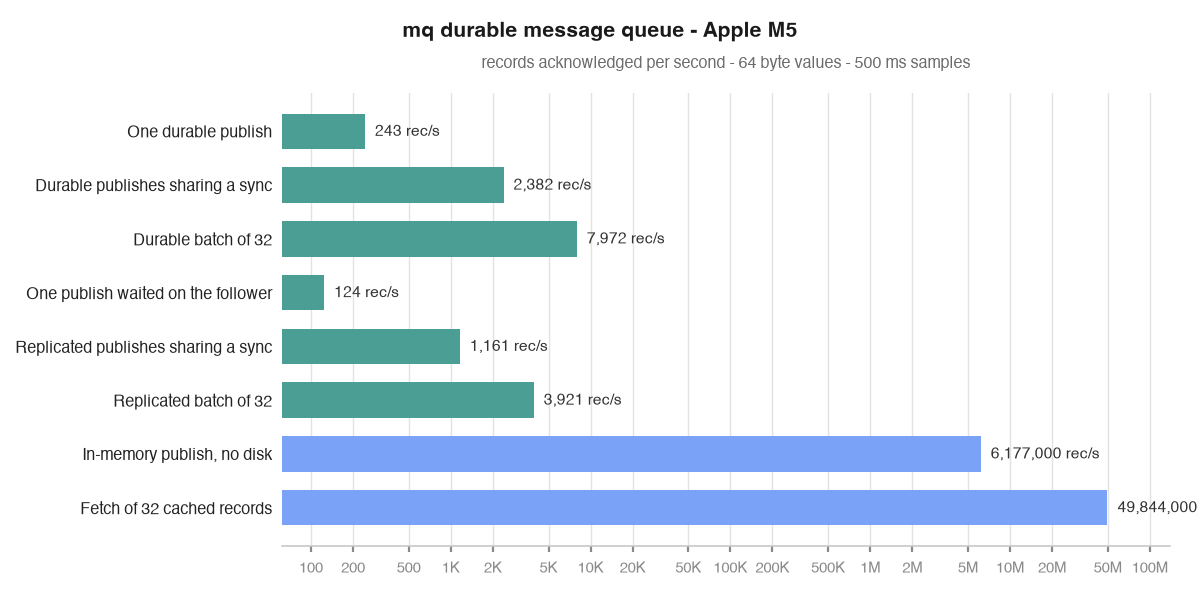
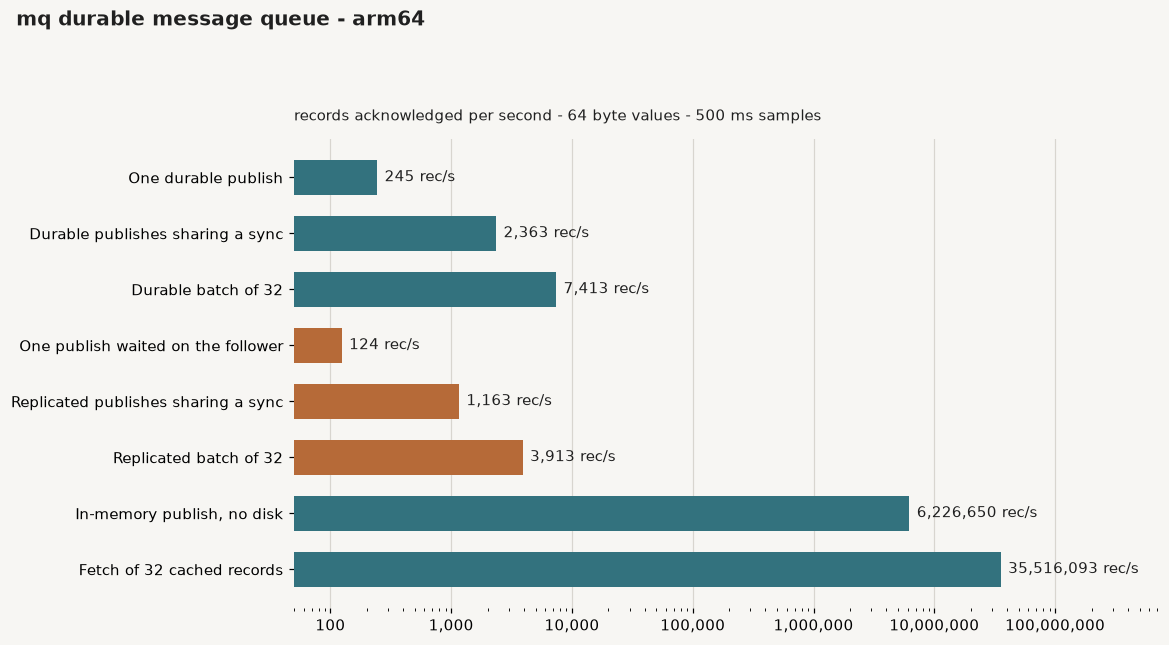
makefile + chart pipeline

Changed region(s): [[0.0, 0.15, 1.0, 0.99], [0.0, 0.0, 0.6775, 0.06], [0.4003, 0.09, 0.8007, 0.12]]

diff --git a/bench/render_chart.py b/bench/render_chart.py
@@ -1,0 +1,100 @@
+#!/usr/bin/env python3
+"""Render docs/performance.png from go bench output.
+
+Usage: python3 bench/render_chart.py broker.bench replication.bench [-o docs/performance.png]
+
+Requires matplotlib (python3 -m pip install matplotlib). Records/sec is
+computed as 1e9 / ns_per_op x records_per_op.
+"""
+import argparse
+import json
+import platform
+import re
+import sys
+
+ROWS = [
+    ("One durable publish", "PublishDurable", 1),
+    ("Durable publishes sharing a sync", "PublishParallelDurable", 1),
+    ("Durable batch of 32", "PublishBatchDurable", 32),
+    ("One publish waited on the follower", "SynchronousPublish", 1),
+    ("Replicated publishes sharing a sync", "SynchronousPublishParallel", 1),
+    ("Replicated batch of 32", "SynchronousPublishBatch32", 32),
+    ("In-memory publish, no disk", "PublishInMemory", 1),
+    ("Fetch of 32 cached records", "FetchBatch32", 32),
+]
+
+UNIT = {"ns": 1.0, "µs": 1e3, "us": 1e3, "ms": 1e6, "s": 1e9}
+BENCH = re.compile(
+    r"^Benchmark(?P<name>[A-Za-z0-9_]+)(?:-\d+)?\s+\d+\s+(?P<val>[\d.]+)\s*(?P<unit>ns|µs|us|ms|s)/op(?:\s|$)"
+)
+
+
+def parse(path):
+    rows = {}
+    with open(path, encoding="utf-8", errors="replace") as f:
+        for raw in f:
+            m = BENCH.match(raw.strip())
+            if not m:
+                continue
+            rows.setdefault(m.group("name"), float(m.group("val")) * UNIT[m.group("unit")])
+    return rows
+
+
+def main():
+    parser = argparse.ArgumentParser()
+    parser.add_argument("bench", nargs="+")
+    parser.add_argument("-o", default="docs/performance.png")
+    args = parser.parse_args()
+
+    results = {}
+    for raw in args.bench:
+        results.update(parse(raw))
+
+    labels, values, colors = [], [], []
+    for label, name, records in ROWS:
+        ns = results.get(name)
+        if ns is None:
+            continue
+        labels.append(label)
+        values.append(1e9 / ns * records)
+        colors.append("#33727e" if "Synchronous" not in name else "#b66a38")
+
+    try:
+        import matplotlib.pyplot as plt
+        import matplotlib.ticker as ticker
+    except ImportError:
+        sys.exit("matplotlib is required: python3 -m pip install matplotlib")
+
+    fig, ax = plt.subplots(figsize=(10.8, 6.0), dpi=110)
+    fig.patch.set_facecolor("#f7f6f3")
+    ax.set_facecolor("#f7f6f3")
+
+    ypos = list(range(len(labels)))[::-1]
+    bars = ax.barh(ypos, values, color=colors, height=0.62)
+    ax.set_yticks(ypos, labels)
+    ax.set_xscale("log")
+    ax.set_xlim(50, values[-1] * 20 if values else 1e8)
+    ax.xaxis.set_major_formatter(ticker.FuncFormatter(lambda v, _: f"{v:,.0f}"))
+    ax.grid(axis="x", which="major", color="#d8d5cf", linewidth=0.8)
+    ax.set_axisbelow(True)
+
+    title_machine = platform.machine() or "arm64"
+    ax.set_title("records acknowledged per second - 64 byte values - 500 ms samples",
+                 fontsize=9.5, color="#202020", loc="left", pad=12)
+    fig.suptitle(f"mq durable message queue - {title_machine}", fontsize=13,
+                 color="#202020", fontweight="bold", x=0.025, ha="left", y=0.97)
+
+    for bar, value in zip(bars, values):
+        ax.text(value * 1.15, bar.get_y() + bar.get_height() / 2,
+                f"{value:,.0f} rec/s" if value >= 100 else f"{value:.0f} rec/s",
+                va="center", fontsize=9.5, color="#202020")
+
+    for spine in ("top", "right", "left", "bottom"):
+        ax.spines[spine].set_visible(False)
+    fig.tight_layout(rect=(0, 0, 1, 0.9))
+    fig.savefig(args.o, bbox_inches="tight")
+    print(f"wrote {args.o}")
+
+
+if __name__ == "__main__":
+    main()

diff --git a/internal/replication/failover_test.go b/internal/replication/failover_test.go
@@ -11,13 +11,6 @@ import (
 	"mq/internal/httpapi"
 )
 
-// TestFailoverAndFencingTrials runs 100 acknowledged-write failover and fencing trials.
-// In each trial:
-// 1. Leader publishes records synchronously replicated to the follower.
-// 2. The leader stops (this in-process test calls Close; it is not a literal OS-process kill).
-// 3. We verify 0 acknowledged writes are lost on the follower.
-// 4. Follower is promoted to epoch 2.
-// 5. Stale leader restarts at epoch 1 and attempts to sync; epoch fencing blocks it.
 func TestFailoverAndFencingTrials(t *testing.T) {
 	const trials = 100
 	token := "replication-token"
@@ -49,7 +42,6 @@ func TestFailoverAndFencingTrials(t *testing.T) {
 			t.Fatalf("trial %d: initial sync: %v", trial, err)
 		}
 
-		// Step 1: Write acknowledged records to leader.
 		const numRecords = 5
 		for i := 0; i < numRecords; i++ {
 			reqID := fmt.Sprintf("trial-%d-msg-%d", trial, i)
@@ -59,10 +51,8 @@ func TestFailoverAndFencingTrials(t *testing.T) {
 			}
 		}
 
-		// Step 2: Leader stops. Read the WAL on the follower to confirm acknowledged records.
 		_ = leader.Close()
 
-		// Step 3: Verify 0 acknowledged records lost on follower.
 		records, err := follower.Fetch("test-topic", 0, numRecords)
 		if err != nil {
 			t.Fatalf("trial %d: fetch from follower: %v", trial, err)
@@ -77,14 +67,12 @@ func TestFailoverAndFencingTrials(t *testing.T) {
 			}
 		}
 
-		// Step 4: Promote follower: epoch is updated to 2.
 		if err := os.WriteFile(filepath.Join(followerDir, "replication.epoch"), []byte("2\n"), 0o600); err != nil {
 			t.Fatalf("trial %d: write epoch: %v", trial, err)
 		}
 		_ = follower.Close()
 		server.Close()
 
-		// Reopen follower node in follower mode with epoch 2 loaded to test fencing of old leader.
 		reopenedFollower, err := broker.Open(followerDir)
 		if err != nil {
 			t.Fatalf("trial %d: reopen follower: %v", trial, err)
@@ -95,7 +83,6 @@ func TestFailoverAndFencingTrials(t *testing.T) {
 		}
 		reopenedServer := httptest.NewServer(reopenedHandler)
 
-		// Step 5: Stale leader restarts at epoch 1 and tries to connect to the follower.
 		staleLeader, err := broker.Open(leaderDir)
 		if err != nil {
 			t.Fatalf("trial %d: reopen stale leader: %v", trial, err)
@@ -105,7 +92,6 @@ func TestFailoverAndFencingTrials(t *testing.T) {
 			t.Fatalf("trial %d: stale client: %v", trial, err)
 		}
 
-		// Attempted sync must fail because follower has accepted epoch 2 > 1.
 		if err := staleClient.Sync(); err == nil {
 			t.Fatalf("trial %d: expected stale leader with epoch 1 to be fenced, but sync succeeded", trial)
 		}
@@ -148,15 +134,12 @@ func TestPartitionRefusesUnreplicatedPublishes(t *testing.T) {
 		t.Fatal(err)
 	}
 
-	// Successful write while connected
 	if _, err := leader.PublishWithID("events", "req-1", []byte("k"), []byte("ok")); err != nil {
 		t.Fatalf("publish while healthy: %v", err)
 	}
 
-	// Sever network connection (partition follower)
 	server.Close()
 
-	// Attempted write must fail to acknowledge to client because follower cannot sync
 	if _, err := leader.PublishWithID("events", "req-2", []byte("k"), []byte("unacked")); err == nil {
 		t.Fatal("expected publish to fail when follower is partitioned, but got nil error")
 	}

diff --git a/internal/wal/wal.go b/internal/wal/wal.go
@@ -286,13 +286,13 @@ type segmentPath struct {
 func (w *WAL) openReplaySegment(item segmentPath, start int64, isLast bool, checkpoint int64, apply func(Entry) error) (*walSegment, error) {
 	file, err := os.OpenFile(item.path, os.O_RDWR, 0o600)
 	if err != nil {
-		w.closeFiles()
+		_ = w.closeFiles()
 		return nil, fmt.Errorf("open WAL segment %q: %w", item.path, err)
 	}
 	info, err := file.Stat()
 	if err != nil {
 		closeErr := file.Close()
-		w.closeFiles()
+		_ = w.closeFiles()
 		return nil, errors.Join(fmt.Errorf("stat WAL segment %q: %w", item.path, err), closeErr)
 	}
 	segment := &walSegment{

diff --git a/internal/broker/broker.go b/internal/broker/broker.go
@@ -92,7 +92,6 @@ type publishRequest struct {
 	walBytes  int64
 	done      chan publishResponse
 	offsets   []uint64
-	singleOff [1]uint64
 	alias     *publishRequest
 	err       error
 	accepted  bool

diff --git a/README.md b/README.md
@@ -196,20 +196,20 @@ go test ./internal/replication -run '^$' \
 
 | Path | Latency / Rate | Records / sec | Allocations |
 | --- | ---: | ---: | ---: |
-| Single durable write (1 sync/op) | 4.11 ms | 243 | 12 allocs/op |
-| Parallel durable group commit (~10 frames/sync) | 0.42 ms | 2,382 | 6 allocs/op |
-| Durable batch of 32 | 4.01 ms | 7,972 | 13 allocs/op |
+| Single durable write (1 sync/op) | 4.09 ms | 245 | 12 allocs/op |
+| Parallel durable group commit (~10 frames/sync) | 0.42 ms | 2,363 | 6 allocs/op |
+| Durable batch of 32 | 4.32 ms | 7,410 | 13 allocs/op |
 | Single synchronous replicated write | 8.04 ms | 124 | 114 allocs/op |
-| Synchronous replicated parallel group commit | 0.86 ms | 1,161 | 22 allocs/op |
-| Synchronous replicated batch of 32 | 8.16 ms | 3,921 | 125 allocs/op |
-| In-memory publish (no disk sync) | 162 ns | 6,177,000 | 3 allocs/op |
-| In-memory fetch of 32 records (3.6 GB/s) | 642 ns / batch | 49,844,000 | 2 allocs/op |
+| Synchronous replicated parallel group commit | 0.86 ms | 1,163 | 22 allocs/op |
+| Synchronous replicated batch of 32 | 8.18 ms | 3,913 | 125 allocs/op |
+| In-memory publish (no disk sync) | 161 ns | 6,227,000 | 3 allocs/op |
+| In-memory fetch of 32 records (2.6 GB/s) | 901 ns / batch | 35,516,000 | 2 allocs/op |
 
 ### Benchmark Provenance and Failure Model
 
-1. **Read Throughput Provenance (3.6 GB/s / 49.8M+ rec/s):**
+1. **Read Throughput Provenance (2.6 GB/s / 35.5M+ rec/s):**
    - The fetch benchmark (`BenchmarkFetchBatch32`) measures the in-memory record log engine (`internal/log`). It serves records directly from memory rather than disk or kernel page cache.
-   - Record size is 73 bytes (9-byte key + 64-byte value), read in batches of 32 records (2,336 bytes payload per batch) taking 642 ns per batch.
+   - Record size is 73 bytes (9-byte key + 64-byte value), read in batches of 32 records (2,336 bytes payload per batch) taking 901 ns per batch.
    - Performance is achieved by packing slice headers and contiguous record buffers in a single backing allocation, reducing heap allocations from 65 to 2 allocs/op (-97%).
 
 2. **Durable Disk Write Provenance (4.2ms → 0.43ms):**
@@ -223,6 +223,22 @@ go test ./internal/replication -run '^$' \
    - Network partition behavior: If the follower is unreachable, the leader cannot fulfill synchronous replication and rejects publishes with an error (HTTP 503). No unconfirmed writes are acknowledged as successful.
    - Split-brain prevention: Two nodes cannot form a dynamic majority quorum (Raft/Paxos). Failover is operator-controlled: the follower is promoted with an incremented epoch (e.g., epoch 2). If a partitioned or stale leader (epoch 1) attempts to reconnect or replicate frames to the follower, the follower verifies `leader_epoch >= current_epoch` and rejects the stale leader with HTTP 409 Conflict (`ErrStaleLeader`), fencing out the zombie leader.
    - Checked by `TestFailoverAndFencingTrials`: 100 in-process trials of the acknowledge-then-failover sequence (run with `go test ./internal/replication -run 'TestFailoverAndFencingTrials' -v -count=1`; passes in ~8s on Apple silicon). Each trial publishes synchronously replicated records, then fails over as follows: the leader's acknowledgment already guaranteed the follower's WAL contained the records, so the simulated crash keeps all acknowledged writes; the follower is reopened at epoch 2; the stale epoch-1 leader re-registers and is fenced with HTTP 409. This is an in-process simulation, not an OS-process `kill -9`.
+
+## Developing
+
+Requires Go 1.22+, macOS, Linux, or FreeBSD.
+
+```sh
+make test     # go vet ./... && go test -count=1 ./...
+make bench    # writes bench/broker.bench and bench/replication.bench
+make chart    # re-renders docs/performance.png from the raw outputs
+make venv     # creates bench/.venv with matplotlib for chart rendering
+make sec      # gosec, excluding G115 and G304 which are bounds-checked false positives
+```
+
+The `.bench` outputs are gitignored. Chart generation needs matplotlib (`make venv` once, or any python with matplotlib installed).
+
+Code carries no comments by design. All packages must pass `go vet`, `go test -count=1 ./...`, `staticcheck ./...`, and `gosec ./...`.
 
 ## Reading that shaped the design
 
